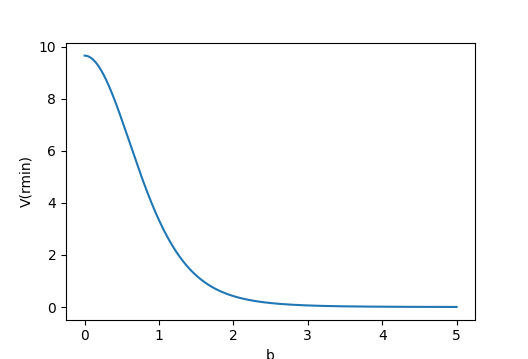
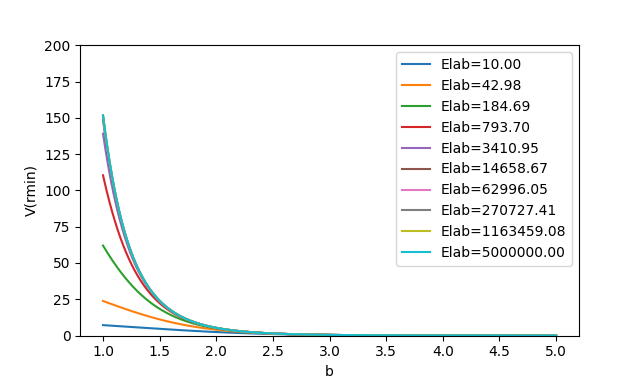
Add nice comparison

diff --git a/project/main.py b/project/main.py
@@ -3,15 +3,8 @@ import matplotlib.pyplot as plt
 from root import get_rmin, Ecom, V
 from scipy.integrate import simpson
 
+from expected import Sn as Sn_expected
 eps = np.finfo(float).eps
-
-# 1H to 28Si    
-Z1, M1 = 1, 1.007825  
-Z2, M2 = 14, 28.085 
-
-# 28Si to 197Au
-# Z1, M1  = 14, 1.007825
-# Z2, M2 = 79, 196.966570 
 
 def F(u, b, rmin, Ecom, Z1, Z2):
     """F function defined after variable substitution
@@ -27,7 +20,7 @@ def F(u, b, rmin, Ecom, Z1, Z2):
 
     return 1 / np.sqrt(res)
 
-u_space = np.linspace(eps, 1 - eps, 300)
+u_space = np.linspace(eps, 1 - eps, 1000)
 def theta(b, Ecom, Z1, Z2):
     """Theta function
     :b:      collision parameter
@@ -41,13 +34,15 @@ def theta(b, Ecom, Z1, Z2):
     y = F(u_space, b, rmin, Ecom, Z1, Z2)
     return np.pi - 4 * b * simpson(y, u_space)
 
-b_max = 10
-b_space = np.linspace(eps, b_max, 300)
-def Sn(Elab, Z1, Z2):
+b_max = 4
+b_space = np.linspace(eps, b_max, 1000)
+def Sn(Elab, Z1, Z2, M1, M2):
     """Calculates the stopping power of projectile Z1 into matter Z2 with energy Elab
     :Elab:   eV Energy in laboratory coordinate system
     :Z1:     Atomic number of projectile
     :Z2:     Atomic number of target
+    :M1:     Atomic mass of projectile
+    :M2:     Atomic mass of target
     :return: Stopping power
     """
     E = Ecom(Elab, M1, M2)
@@ -63,13 +58,31 @@ def gamma(M1, M2):
     """
     return (4*M1*M2) / ((M1+M2)**2)
 
-Elab = np.logspace(1, np.log10(5e6), 150)
-Sn_res = []
-for E in Elab:
-    Sn_res.append(Sn(E, Z1, Z2))
 
-# Plots a log-log 
-plt.loglog(Elab, Sn_res)
+materials = [
+    # 1H to 28Si 
+    ((1, 1.007825), (14, 28.085 )),
+    # 28Si to 197Au
+    ((14, 1.007825), (79, 196.966570))
+]
+
+for projectile, target in materials:
+    Z1, M1 = projectile
+    Z2, M2 = target
+
+    Elab = np.logspace(1, np.log10(5e6), 300)
+
+    # Plots a log-log of numerical Sn and expected Sn with mean squared error
+    y = [Sn(E, Z1, Z2, M1, M2) for E in Elab]
+    y_expected = Sn_expected(Z1, Z2, M1, M2, Elab / 1000)
+    plt.loglog(Elab,y , label=f"ZBL:(Z1={Z1}, M1={M1}), (Z2={Z2}, M2={M2})")
+    mse = np.square(y - y_expected).mean() 
+    plt.loglog(Elab, y_expected, label=f"Expected:(Z1={Z1}, M1={M1}), (Z2={Z2}, M2={M2}) mse={mse}")
+    
+    print()
 plt.xlabel('Elab')
 plt.ylabel('Sn(Elab)')
+
+plt.legend()
 plt.show()
+

diff --git a/project/expected.py b/project/expected.py
@@ -1,6 +1,10 @@
 import numpy as np
 import matplotlib.pyplot as plt
 
+"""
+Calculates and plots the expected values based on fitting a
+suitable formula. (14)
+"""
 def e(Z1, Z2, M1, M2, Elab):
     return (32.53*M2*Elab) /(Z1*Z2 * (M1+M2) * (Z1**0.23 + Z2**0.23))
 
@@ -8,25 +12,22 @@ def Sn(Z1, Z2, M1, M2, Elab):
     return sn(e(Z1, Z2, M1, M2, Elab)) * ((8.462*10e-15*Z1*Z2*M1) / ((M1 + M2)/(Z1**0.23 + Z2**0.23)))
 
 def sn(e):
-    if (e <= 30):
-        return np.log(1 + 1.138*e) / (2 * (e + 0.01321*e**0.21226 + 0.19593*e**0.5))
-    else:
-        return np.log(e) / (2*e)
+    return np.where(e <= 30, np.log(1 + 1.138*e) / (2 * (e + 0.01321*e**0.21226 + 0.19593*e**0.5)), np.log(e) / (2*e)) * 10 ** 14
 
-# 1H to 28Si    
-Z1, M1 = 1, 1.007825  
-Z2, M2 = 14, 28.085 
+def plot():
 
-# # 28Si to 197Au
-# Z1, M1  = 14, 1.007825
-# Z2, M2 = 79, 196.966570 
+    Elab = np.logspace(1, np.log10(5e6), 1000)
 
-Elab = np.logspace(1, np.log10(5e6), 1000)
+    # 1H to 28Si    
+    Z1, M1 = 1, 1.007825  
+    Z2, M2 = 14, 28.085 
+    plt.loglog(Elab, Sn(Z1, Z2, M1, M2, Elab / 1000) * 10**14, label="1H to 28Si")
 
-Sns = []
-for E in Elab:
-    # Energy converted to KeV and result to eV/(atom/Å^2)
-    Sns.append(Sn(Z1, Z2, M1, M2, E / 1000) * 10**14)
+    # 28Si to 197Au
+    Z1, M1  = 14, 1.007825
+    Z2, M2 = 79, 196.966570 
+    plt.loglog(Elab, Sn(Z1, Z2, M1, M2, Elab / 1000) * 10**14, label="28Si to 197Au")
 
-plt.loglog(Elab, Sns)
-plt.show()
+    plt.show()
+
+# plot()

diff --git a/project/negligible_potential.py b/project/negligible_potential.py
@@ -8,15 +8,15 @@ eps = sys.float_info.epsilon
 """ Plots V(r) as a function of b to find b_max """
 
 # 1H to 28Si    
-Z1, M1 = 1, 1.007825  
-Z2, M2 = 14, 28.085 
+# Z1, M1 = 1, 1.007825  
+# Z2, M2 = 14, 28.085 
 
 # 28Si to 197Au
-# Z1, M1  = 14, 1.007825
-# Z2, M2 = 79, 196.966570 
+Z1, M1  = 14, 1.007825
+Z2, M2 = 79, 196.966570 
 
 for Elab in np.logspace(1, np.log10(5e6), 10):
-    bs = np.linspace(eps, 5, 1000)
+    bs = np.linspace(1, 5, 1000)
 
     Vs = []
     for b in bs:
